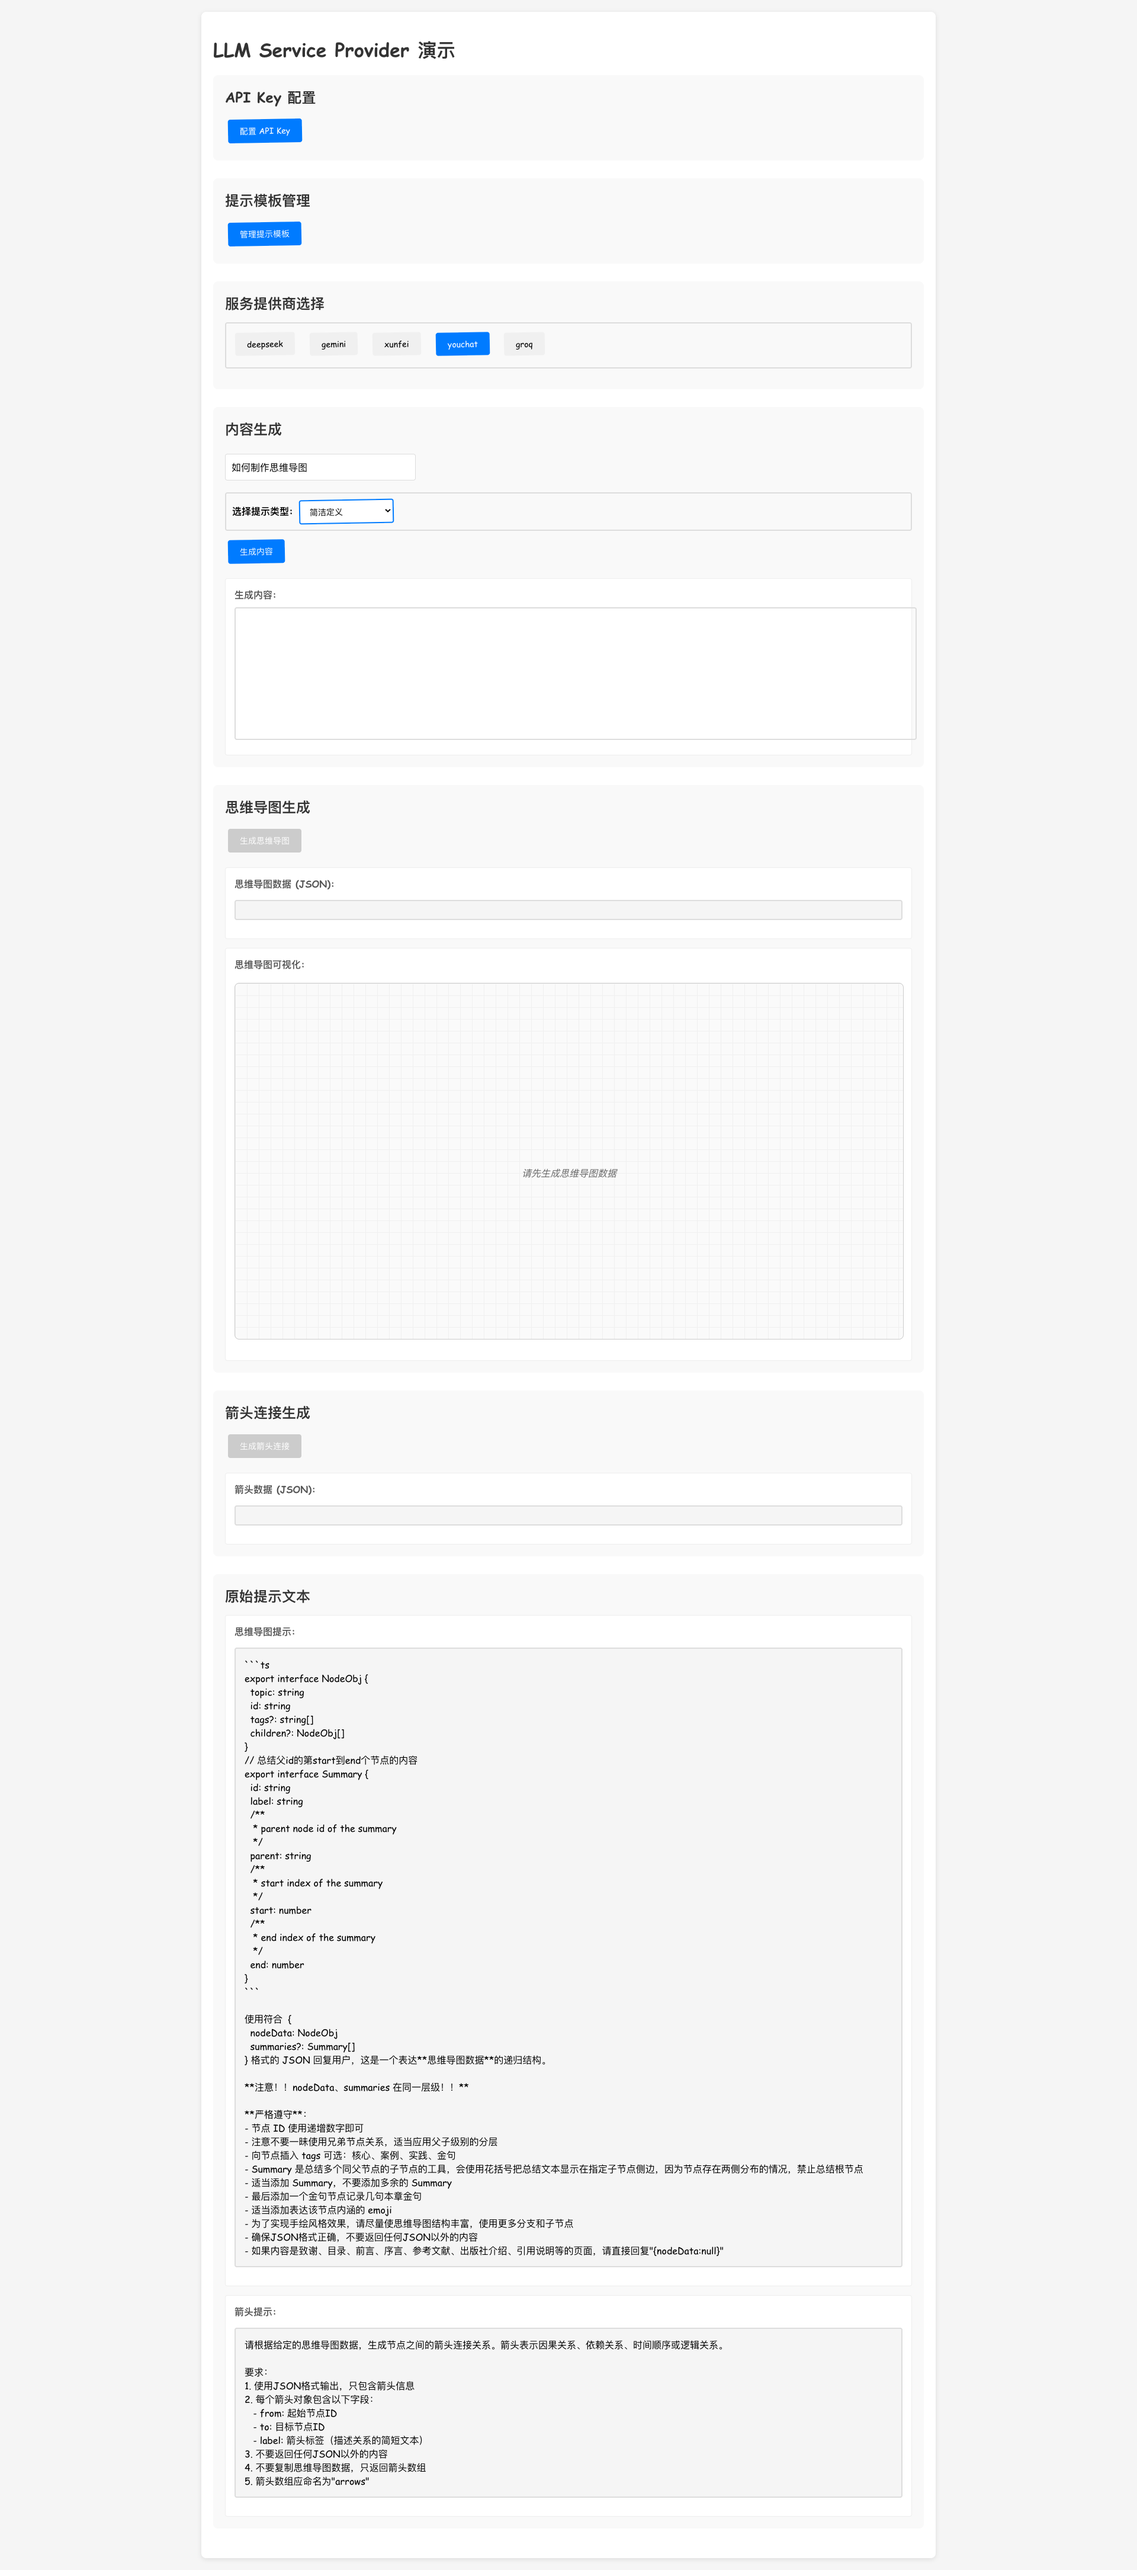
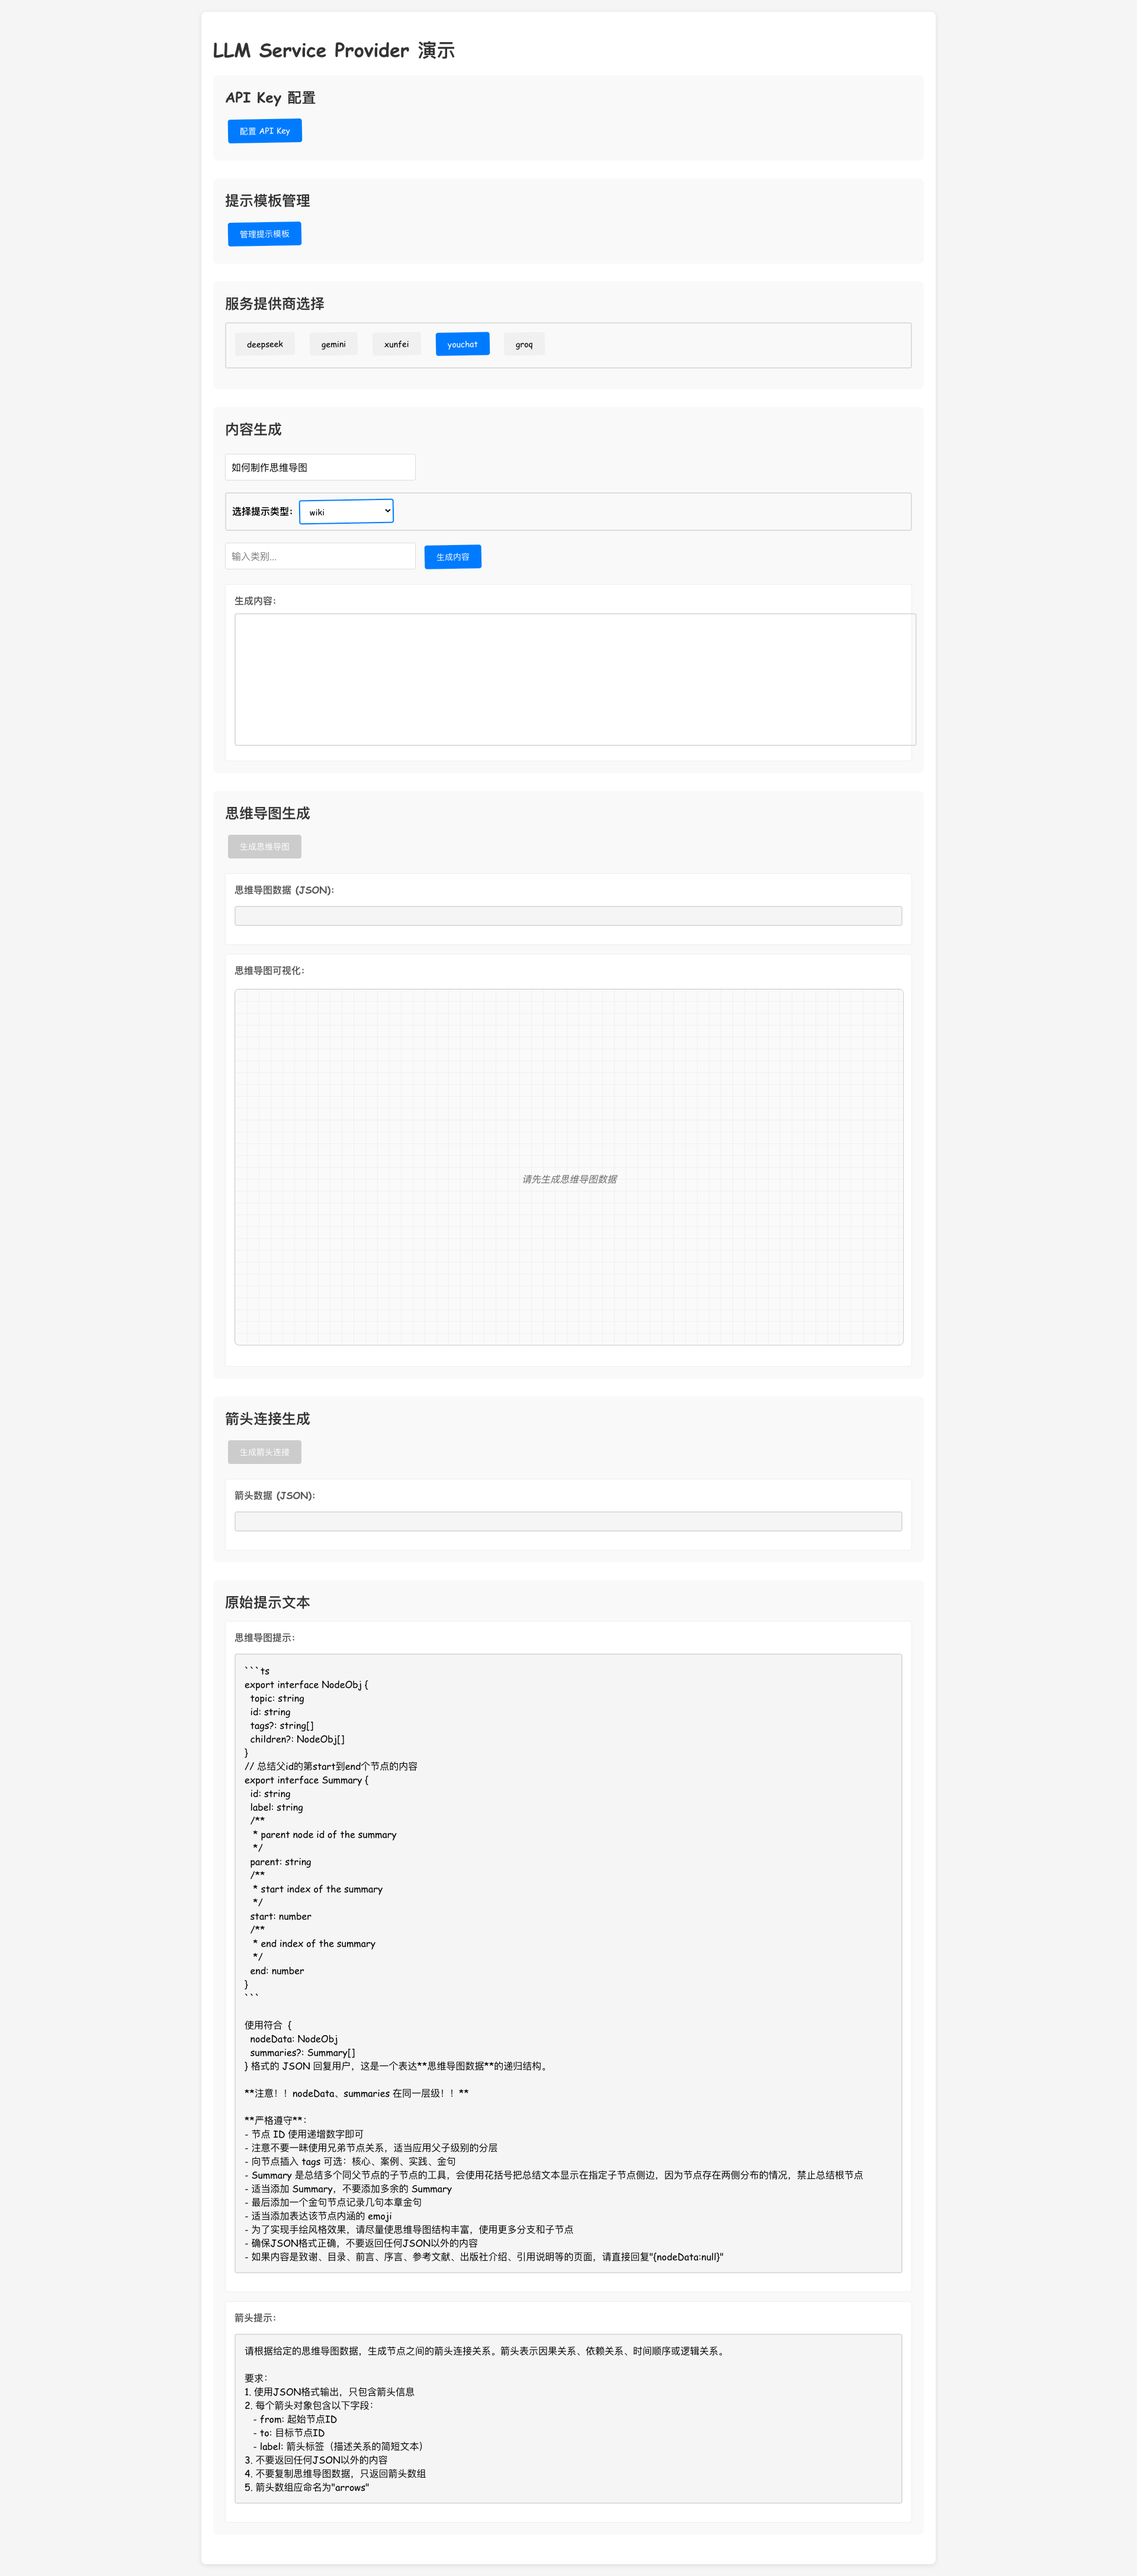
Bump version to 2.16.0

diff --git a/src/ApiKeyManager.tsx b/src/ApiKeyManager.tsx
@@ -30,6 +30,7 @@ interface ApiKeyManagerProps {
   onPromptTypeChange?: (promptType: string, category?: string, context?: string) => void
   defaultPromptType?: string
   language?: 'zh' | 'en'
+  compactTemplate?: boolean
 }
 
 const ApiKeyManager: React.FC<ApiKeyManagerProps> = ({
@@ -39,7 +40,8 @@ const ApiKeyManager: React.FC<ApiKeyManagerProps> = ({
   isOpen,
   onPromptTypeChange,
   defaultPromptType,
-  language = 'zh'
+  language = 'zh',
+  compactTemplate = false
 }) => {
   const [selectedPromptType, setSelectedPromptType] = useState(defaultPromptType || '简洁定义')
   const [category, setCategory] = useState('')
@@ -279,24 +281,25 @@ const ApiKeyManager: React.FC<ApiKeyManagerProps> = ({
         }}
         onClick={e => e.stopPropagation()}
       >
-        {/* <div style={{ position: 'absolute', top: '1rem', left: '1rem' }}>
-          <select
-            value={currentLanguage}
-            onChange={(e) => handleLanguageChange(e.target.value as 'zh' | 'en')}
+        <div style={{ position: 'absolute', top: '1rem', right: '1rem' }}>
+          <button
+            onClick={onClose}
             style={{
-              padding: '0.25rem 0.5rem',
-              border: '1px solid #e1e8ed',
+              background: 'none',
+              border: 'none',
+              fontSize: '1.2rem',
+              cursor: 'pointer',
+              color: '#666',
+              padding: '0.5rem',
               borderRadius: '4px',
-              fontSize: '0.8rem'
+              transition: 'background-color 0.2s ease'
             }}
+            onMouseEnter={e => e.currentTarget.style.backgroundColor = '#f5f5f5'}
+            onMouseLeave={e => e.currentTarget.style.backgroundColor = 'transparent'}
           >
-            {availableLanguages.map(lang => (
-              <option key={lang.code} value={lang.code}>
-                {lang.name}
-              </option>
-            ))}
-          </select>
-        </div> */}
+            ×
+          </button>
+        </div>
 
         <h2 style={{ marginTop: 0, marginBottom: '1.5rem', color: '#2c3e50' }}>
           {currentLanguage === 'zh' ? 'API 密钥配置' : 'API Key Configuration'}
@@ -619,21 +622,24 @@ const ApiKeyManager: React.FC<ApiKeyManagerProps> = ({
           </button>
         </div>
              
-        <div style={{ marginBottom: '1.5rem', paddingTop: '1rem', borderTop: '1px solid #eee' }}>
-          <h3 style={{ marginTop: 0, marginBottom: '1rem', color: '#2c3e50', fontSize: '1.1rem' }}>
-            {currentLanguage === 'zh' ? '提示模板设置' : 'Prompt Template Settings'}
-          </h3>
-          <div style={{ marginBottom: '1rem' }}>
-            <label
-              style={{
-                display: 'block',
-                marginBottom: '0.5rem',
-                fontWeight: '500',
-                color: '#34495e'
-              }}
-            >
-              {currentLanguage === 'zh' ? '选择提示类型' : 'Select Prompt Type'}
-            </label>
+        {!compactTemplate && (
+          <div style={{ marginBottom: '1.5rem', paddingTop: '1rem', borderTop: '1px solid #eee' }}>
+            <h3 style={{ marginTop: 0, marginBottom: '1rem', color: '#2c3e50', fontSize: '1.1rem' }}>
+              {currentLanguage === 'zh' ? '提示模板设置' : 'Prompt Template Settings'}
+            </h3>
+            <div style={{ marginBottom: '1rem' }}>
+              <label
+                style={{
+                  display: 'block',
+                  marginBottom: '0.5rem',
+                  fontWeight: '500',
+                  color: '#34495e'
+                }}
+              >
+                {currentLanguage === 'zh' ? '选择提示类型' : 'Select Prompt Type'}
+              </label>
+            </div>
+            
             <select
               value={selectedPromptType}
               onChange={handlePromptTypeChange}
@@ -654,67 +660,8 @@ const ApiKeyManager: React.FC<ApiKeyManagerProps> = ({
               ))}
             </select>
           </div>
+        )}
 
-          {selectedPromptType === 'wiki' && (
-            <div style={{ marginBottom: '1rem' }}>
-              <label
-                style={{
-                  display: 'block',
-                  marginBottom: '0.5rem',
-                  fontWeight: '500',
-                  color: '#34495e'
-                }}
-              >
-                {currentLanguage === 'zh' ? '输入类别' : 'Enter Category'}
-              </label>
-              <input
-                type='text'
-                value={category}
-                onChange={handleCategoryChange}
-                placeholder={currentLanguage === 'zh' ? '输入类别...' : 'Enter category...'}
-                style={{
-                  width: '100%',
-                  padding: '0.75rem',
-                  border: '2px solid #e1e8ed',
-                  borderRadius: '8px',
-                  fontSize: '1rem',
-                  boxSizing: 'border-box'
-                }}
-              />
-            </div>
-          )}
-
-          {selectedPromptType === '带上下文回答' && (
-            <div style={{ marginBottom: '1rem' }}>
-              <label
-                style={{
-                  display: 'block',
-                  marginBottom: '0.5rem',
-                  fontWeight: '500',
-                  color: '#34495e'
-                }}
-              >
-                {currentLanguage === 'zh' ? '输入上下文信息' : 'Enter Context Information'}
-              </label>
-              <textarea
-                value={context}
-                onChange={handleContextChange}
-                placeholder={currentLanguage === 'zh' ? '输入上下文信息...' : 'Enter context information...'}
-                rows={4}
-                style={{
-                  width: '100%',
-                  padding: '0.75rem',
-                  border: '2px solid #e1e8ed',
-                  borderRadius: '8px',
-                  fontSize: '1rem',
-                  boxSizing: 'border-box',
-                  resize: 'vertical'
-                }}
-              />
-            </div>
-          )}
-        </div>
-        
         {isValid && (
           <div
             style={{

diff --git a/demo/src/App.tsx b/demo/src/App.tsx
@@ -386,7 +386,8 @@ function App () {
           onClose={() => setIsApiKeyManagerOpen(false)}
           isOpen={isApiKeyManagerOpen}
           defaultPromptType='wiki'
-          language='en'
+          language='zh'
+          compactTemplate={true}
           onPromptTypeChange={(promptType, category, context) => {
             setSelectedPromptType(promptType)
             if (category !== undefined) setCategory(category)
